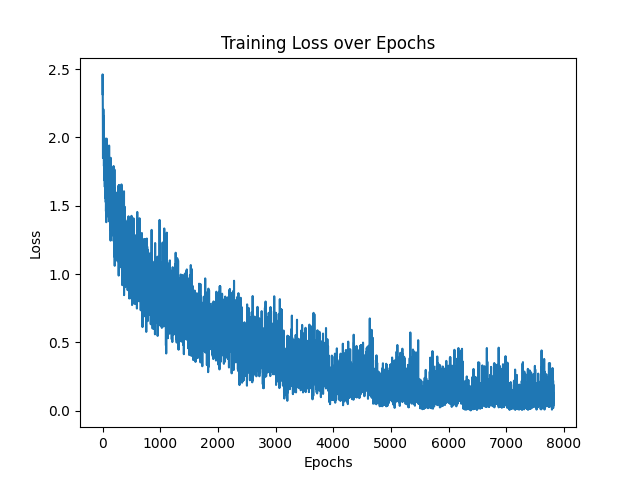
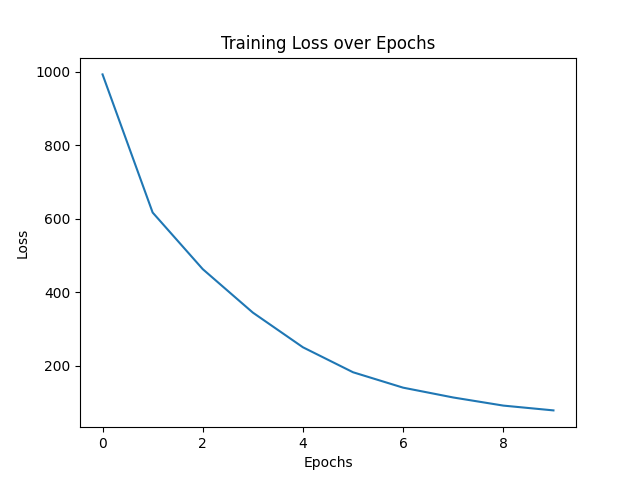
updated cifar loss graph

diff --git a/ECS189G_Winter_2022_Source_Code_Template/code/stage_3_code/Method_CNN_CIFAR.py b/ECS189G_Winter_2022_Source_Code_Template/code/stage_3_code/Method_CNN_CIFAR.py
@@ -13,6 +13,8 @@ import torch.nn as nn
 import numpy as np
 from torchvision import transforms
 from torch.utils.data import Dataset, DataLoader, TensorDataset
+from torch.utils.data import random_split
+from tqdm import tqdm
 
 
 class Method_CNN_CIFAR(method, nn.Module):
@@ -99,17 +101,17 @@ class Method_CNN_CIFAR(method, nn.Module):
 
         return y_pred
 
-    # def normalize(self, X : torch.Tensor):
-    #     X_rescaled = (X - X.min()) / (X.max() - X.min())
-    #     return (X_rescaled - self.mean) / self.std
-
     def train(self, X, y):
 
         print("Number of points:", len(X))
         print("Number of features:", len(X[0]), len(X[0][0]), len(X[0][0][0]))
         print("Unique values", set(y))
 
-        # Convert X and y to PyTorch tensors
+        # List to store loss values during training
+        losses = []
+        optimizer = torch.optim.Adam(self.parameters(), lr=self.learning_rate)
+        loss_function = nn.CrossEntropyLoss()
+
         if isinstance(X, list):
             X = np.array(X)
         X_tensor = torch.tensor(X, dtype=torch.float32).permute(0, 3, 1, 2) / 255.0  # Normalize to [0, 1]
@@ -119,15 +121,10 @@ class Method_CNN_CIFAR(method, nn.Module):
         dataset = torch.utils.data.TensorDataset(X_tensor, y_tensor)
         loader = torch.utils.data.DataLoader(dataset, batch_size=64, shuffle=True)
 
-        # List to store loss values during training
-        losses = []
-        optimizer = torch.optim.Adam(self.parameters(), lr=self.learning_rate)
-        loss_function = nn.CrossEntropyLoss()
-
         # for training accuracy investigation purpose
         accuracy_evaluator = Evaluate_Accuracy('training evaluator', '')
 
-        # y_true = torch.LongTensor(np.array(y))
+        y_true = torch.LongTensor(np.array(y))
 
         for epoch in range(self.max_epoch):
             total_loss = 0
@@ -141,10 +138,11 @@ class Method_CNN_CIFAR(method, nn.Module):
 
                 train_loss = loss_function(y_pred, target)
                 total_loss += train_loss.item()
-                losses.append(train_loss.item())
+
 
                 train_loss.backward()
                 optimizer.step()
+            losses.append(total_loss)
 
             avg_loss = total_loss / len(loader)
             # accuracy_evaluator.data = {'true_y': y_true, 'pred_y': y_pred.max(1)[1]}
@@ -157,6 +155,8 @@ class Method_CNN_CIFAR(method, nn.Module):
         plt.ylabel('Loss')
         plt.title('Training Loss over Epochs')
         plt.savefig('../../result/stage_3_result/cifar_loss.png')
+
+        # return history
 
     def test(self, X):
         if isinstance(X, list):
@@ -191,6 +191,16 @@ class Method_CNN_CIFAR(method, nn.Module):
         if self.mps_device:
             print('Using MPS')
         print('--start training...')
+
+        # val_size = 5000
+        # train_size = len(self.data['train']['X']) - val_size
+        # train_ds, val_ds = random_split(self.data['train']['X'], [train_size, val_size])
+        #
+        # batch_size = 64
+        # train_dl = DataLoader(train_ds, batch_size, shuffle=True, num_workers=4, pin_memory=True)
+        # val_dl = DataLoader(val_ds, batch_size, num_workers=4, pin_memory=True)
+        # history = self.train(train_dl, val_dl)
+
         self.train(self.data['train']['X'], self.data['train']['y'])
         print('--start testing...')
         # remember to use 0-39 indexing!

diff --git a/ECS189G_Winter_2022_Source_Code_Template/script/stage_3_script/script_cnn_cifar.py b/ECS189G_Winter_2022_Source_Code_Template/script/stage_3_script/script_cnn_cifar.py
@@ -8,7 +8,6 @@ import torch
 
 # ---- Multi-Layer Perceptron script ----
 if 1:
-
     # ---- parameter section -------------------------------
     np.random.seed(2)
     torch.manual_seed(2)
